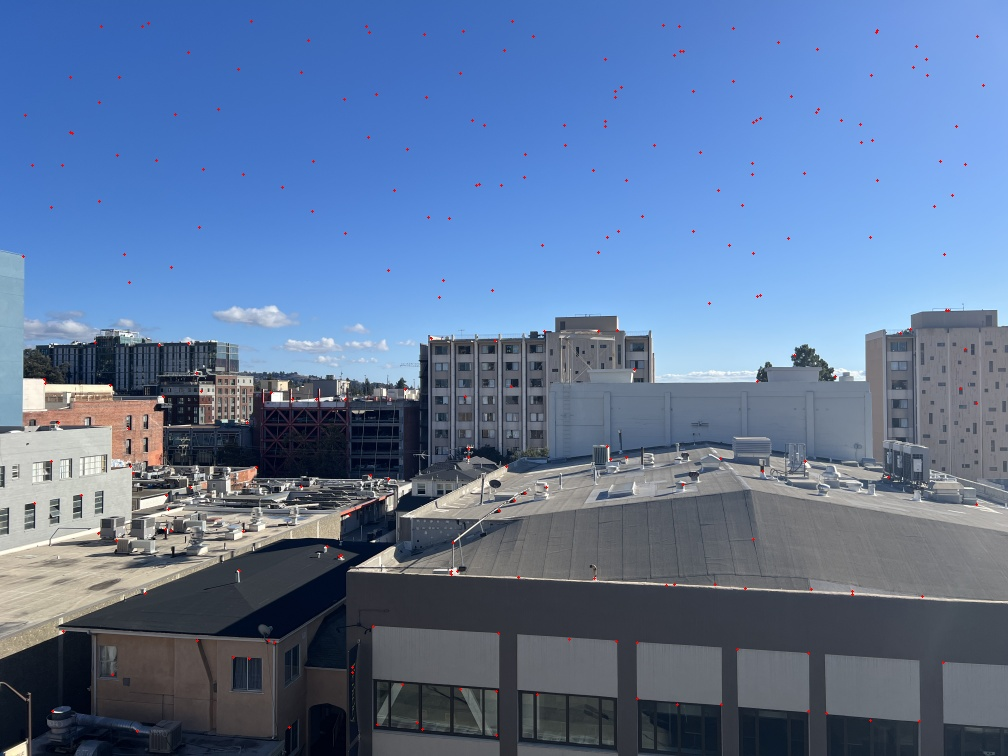
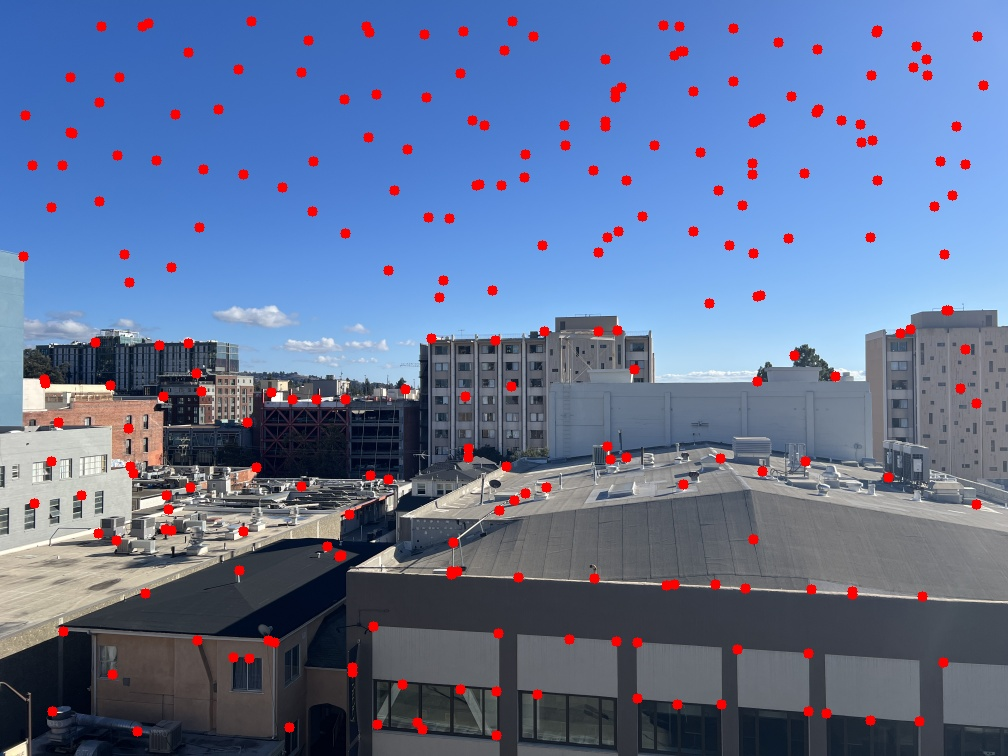
chkpoint

diff --git a/p4b/B3.py b/p4b/B3.py
@@ -1,6 +1,32 @@
+import colorsys
 from pathlib import Path
 
 import cv2
+import numpy as np
+
+from B1 import dist2, get_anms_corners
+from B2 import extract_feature_descriptor
+
+
+def find_matches(fds1, fds2):
+    d2s = dist2(fds1, fds2)
+    matches = []
+    for i in range(len(fds1)):
+        # d = np.sqrt(d2s[i])
+        d = d2s[i]
+        best_js = np.argsort(d)
+        nn1_id = best_js[0]
+        nn2_id = best_js[1]
+        if d[nn1_id] / d[nn2_id] < 0.6:
+            matches.append((i, nn1_id))
+    return matches
+
+
+def color_gen(i):
+    hue = (i * 0.61803398875) % 1.0
+    r, g, b = colorsys.hsv_to_rgb(hue, 0.9, 1.0)
+    color = (int(b*255), int(g*255), int(r*255))
+    return color
 
 
 if __name__ == "__main__":
@@ -11,35 +37,31 @@ if __name__ == "__main__":
     im1 = cv2.imread(IN_PATH / "left.JPG")
     im2 = cv2.imread(IN_PATH / "center.JPG")
 
-    f = 0.25
+    f = 0.1
     im1 = cv2.resize(im1, None, fx=f, fy=f, interpolation=cv2.INTER_AREA)
     im2 = cv2.resize(im2, None, fx=f, fy=f, interpolation=cv2.INTER_AREA)
     im1_gray = cv2.cvtColor(im1, cv2.COLOR_BGR2GRAY)
     im2_gray = cv2.cvtColor(im2, cv2.COLOR_BGR2GRAY)
 
-    # get the 5 best corners
-    im_h, corners = get_anms_corners(im_gray)  # sorted by best r
-    h = im_h[corners[0], corners[1]]
-    sorted_ids = np.argsort(h)
-    best_ids = sorted_ids[::-1][:5]  # sorted by best h
-    best_corners = corners[:, best_ids]
-    print("best_corners", best_corners)
+    _, corners1 = get_anms_corners(im1_gray)
+    print("corners1:", corners1.shape)
+    _, corners2 = get_anms_corners(im2_gray)
 
-    # visualize their descriptors
-    fds = [extract_feature_descriptor(im_gray, corner)
-           for corner in best_corners.T]
-    colors = [(0, 0, 255), (0, 255, 0), (255, 0, 0),
-              (0, 255, 255), (255, 255, 0)]
-    for i in range(5):
-        cv2.circle(im, center=(best_corners[1, i], best_corners[0, i]),
-                   radius=10, color=colors[i], thickness=-1)
-        fd = (fds[i] + 2) / 4 * 255
-        fd = fd.astype(np.uint8)
-        fd = cv2.cvtColor(fd, cv2.COLOR_GRAY2BGR)
-        fd = cv2.copyMakeBorder(
-            fd, 1, 1, 1, 1,
-            borderType=cv2.BORDER_CONSTANT, value=colors[i]
-        )
-        fd = cv2.resize(fd, (256, 256), interpolation=cv2.INTER_NEAREST)
-        cv2.imwrite(OUT_PATH / f"fd_{i}.JPG", fd)
-    cv2.imwrite(OUT_PATH / "fd_base.JPG", im)
+    fds1 = np.array([extract_feature_descriptor(im1_gray, corner).flatten()
+                     for corner in corners1.T])
+    print("fds1:", fds1.shape)
+    fds2 = np.array([extract_feature_descriptor(im2_gray, corner).flatten()
+                     for corner in corners2.T])
+    matches = find_matches(fds1, fds2)
+    print("matches:", len(matches))
+
+    for match in matches:
+        i = match[0]
+        j = match[1]
+        c = color_gen(i)
+        cv2.circle(im1, center=(corners1[1, i], corners1[0, i]),
+                   radius=10, color=c, thickness=-1)
+        cv2.circle(im2, center=(corners2[1, j], corners2[0, j]),
+                   radius=10, color=c, thickness=-1)
+    cv2.imwrite(OUT_PATH / "left_matching.JPG", im1)
+    cv2.imwrite(OUT_PATH / "center_matching.JPG", im2)

diff --git a/p4b/B1.py b/p4b/B1.py
@@ -88,32 +88,41 @@ if __name__ == "__main__":
     t = 1
     IN_PATH = DIR / f"mosaic_{t}"
     OUT_PATH = DIR / f"mosaic_{t}"
-    left = cv2.imread(IN_PATH / "left.JPG")
-    center = cv2.imread(IN_PATH / "center.JPG")
-    right = cv2.imread(IN_PATH / "right.JPG")
+    im = cv2.imread(IN_PATH / "2.JPG")
 
     # downscale everything because massive images from iphone are hard to process
     f = 0.25
     # print("left.shape", left.shape)
-    left = cv2.resize(left, None, fx=f, fy=f, interpolation=cv2.INTER_AREA)
-    center = cv2.resize(center, None, fx=f, fy=f, interpolation=cv2.INTER_AREA)
-    right = cv2.resize(right, None, fx=f, fy=f, interpolation=cv2.INTER_AREA)
+    im = cv2.resize(im, None, fx=f, fy=f, interpolation=cv2.INTER_AREA)
     # print("left.shape", left.shape)
-    center_gray = cv2.cvtColor(center, cv2.COLOR_BGR2GRAY)
+    im_gray = cv2.cvtColor(im, cv2.COLOR_BGR2GRAY)
 
     # harris
-    h, corners = get_harris_corners(center_gray)
-    print(corners.shape)
-    if False:
-        print(corners)
+    if True:
+        im_h, corners = get_harris_corners(im_gray)
+        # print(corners.shape)
+        # print(corners)
+        im1 = im.copy()
         for point in np.transpose(corners):
-            cv2.circle(center, center=(int(point[1]), int(point[0])),
+            cv2.circle(im1, center=(int(point[1]), int(point[0])),
                        radius=1, color=(0, 0, 255), thickness=-1)
-        cv2.imwrite(OUT_PATH / "corners.JPG", center)
-    else:
+        cv2.imwrite(OUT_PATH / "corners.JPG", im1)
+    if True:
+        # topk
+        h = im_h[corners[0], corners[1]]
+        sorted_ids = np.argsort(h)
+        best_ids = sorted_ids[::-1][:250]  # sorted by largest h
+        best_corners = corners[:, best_ids]
+        im3 = im.copy()
+        for point in np.transpose(best_corners):
+            cv2.circle(im3, center=(int(point[1]), int(point[0])),
+                       radius=5, color=(0, 0, 255), thickness=-1)
+        cv2.imwrite(OUT_PATH / "corners_besth.JPG", im3)
+    if True:
         # anms
-        corners = get_anms_corners(center_gray)
+        h, corners = get_anms_corners(im_gray)
+        im2 = im.copy()
         for point in np.transpose(corners):
-            cv2.circle(center, center=(int(point[1]), int(point[0])),
-                       radius=1, color=(0, 0, 255), thickness=-1)
-        cv2.imwrite(OUT_PATH / "corners_ANMS.JPG", center)
+            cv2.circle(im2, center=(int(point[1]), int(point[0])),
+                       radius=5, color=(0, 0, 255), thickness=-1)
+        cv2.imwrite(OUT_PATH / "corners_ANMS.JPG", im2)

diff --git a/p4b/B2.py b/p4b/B2.py
@@ -22,22 +22,35 @@ def extract_feature_descriptor(im, point):
     return fd
 
 
+def vis_fd(fd, color=None):
+    fd = (fd + 2) / 4 * 255
+    fd = fd.astype(np.uint8)
+    fd = cv2.cvtColor(fd, cv2.COLOR_GRAY2BGR)
+    if color:
+        fd = cv2.copyMakeBorder(
+            fd, 1, 1, 1, 1,
+            borderType=cv2.BORDER_CONSTANT, value=colors[i]
+        )
+    fd = cv2.resize(fd, (256, 256), interpolation=cv2.INTER_NEAREST)
+
+
 if __name__ == "__main__":
     DIR = Path(__file__).resolve().parent
     t = 1
     IN_PATH = DIR / f"mosaic_{t}"
     OUT_PATH = DIR / f"mosaic_{t}"
-    im = cv2.imread(IN_PATH / "center.JPG")
+    im = cv2.imread(IN_PATH / "2.JPG")
 
     f = 0.25
     im = cv2.resize(im, None, fx=f, fy=f, interpolation=cv2.INTER_AREA)
     im_gray = cv2.cvtColor(im, cv2.COLOR_BGR2GRAY)
 
     # get the 5 best corners
+    k = 10
     im_h, corners = get_anms_corners(im_gray)  # sorted by best r
     h = im_h[corners[0], corners[1]]
     sorted_ids = np.argsort(h)
-    best_ids = sorted_ids[::-1][:5]  # sorted by best h
+    best_ids = sorted_ids[::-1][:k]  # sorted by best h
     best_corners = corners[:, best_ids]
     print("best_corners", best_corners)
 
@@ -46,16 +59,9 @@ if __name__ == "__main__":
            for corner in best_corners.T]
     colors = [(0, 0, 255), (0, 255, 0), (255, 0, 0),
               (0, 255, 255), (255, 255, 0)]
-    for i in range(5):
+    for i in range(k):
         cv2.circle(im, center=(best_corners[1, i], best_corners[0, i]),
                    radius=10, color=colors[i], thickness=-1)
-        fd = (fds[i] + 2) / 4 * 255
-        fd = fd.astype(np.uint8)
-        fd = cv2.cvtColor(fd, cv2.COLOR_GRAY2BGR)
-        fd = cv2.copyMakeBorder(
-            fd, 1, 1, 1, 1,
-            borderType=cv2.BORDER_CONSTANT, value=colors[i]
-        )
-        fd = cv2.resize(fd, (256, 256), interpolation=cv2.INTER_NEAREST)
+        fd = vis_fd(fds[i])
         cv2.imwrite(OUT_PATH / f"fd_{i}.JPG", fd)
     cv2.imwrite(OUT_PATH / "fd_base.JPG", im)
